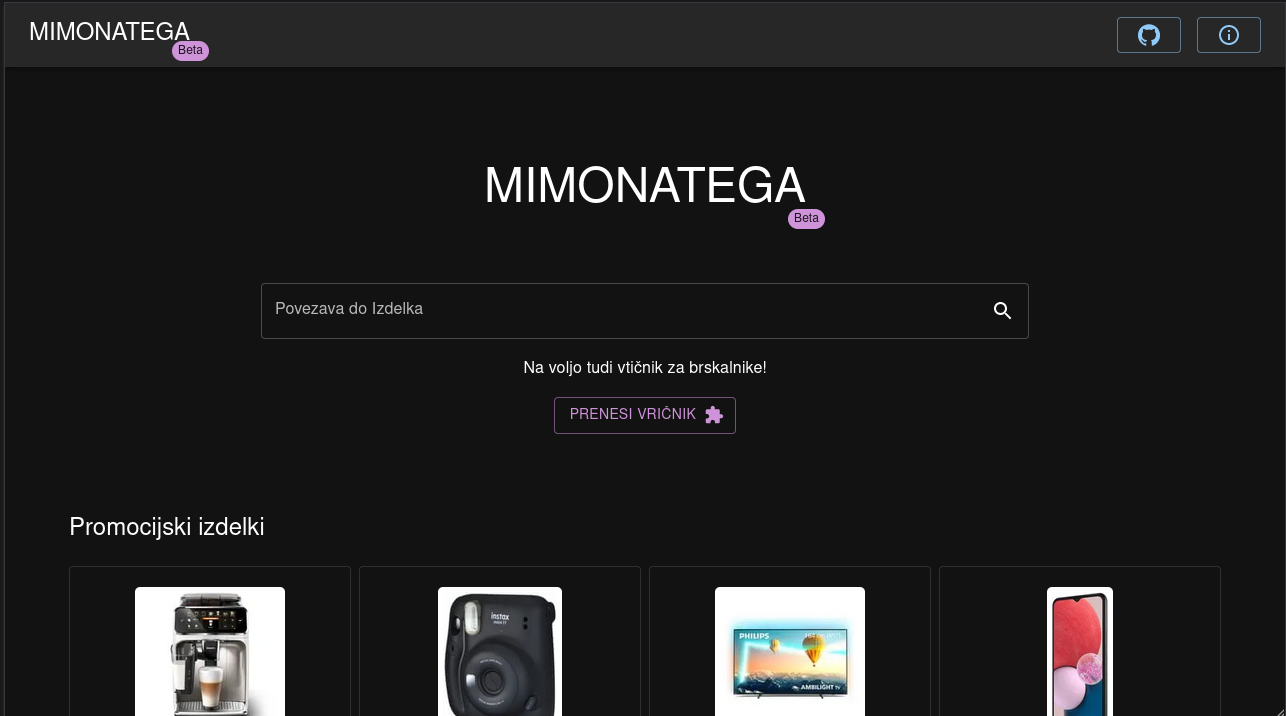
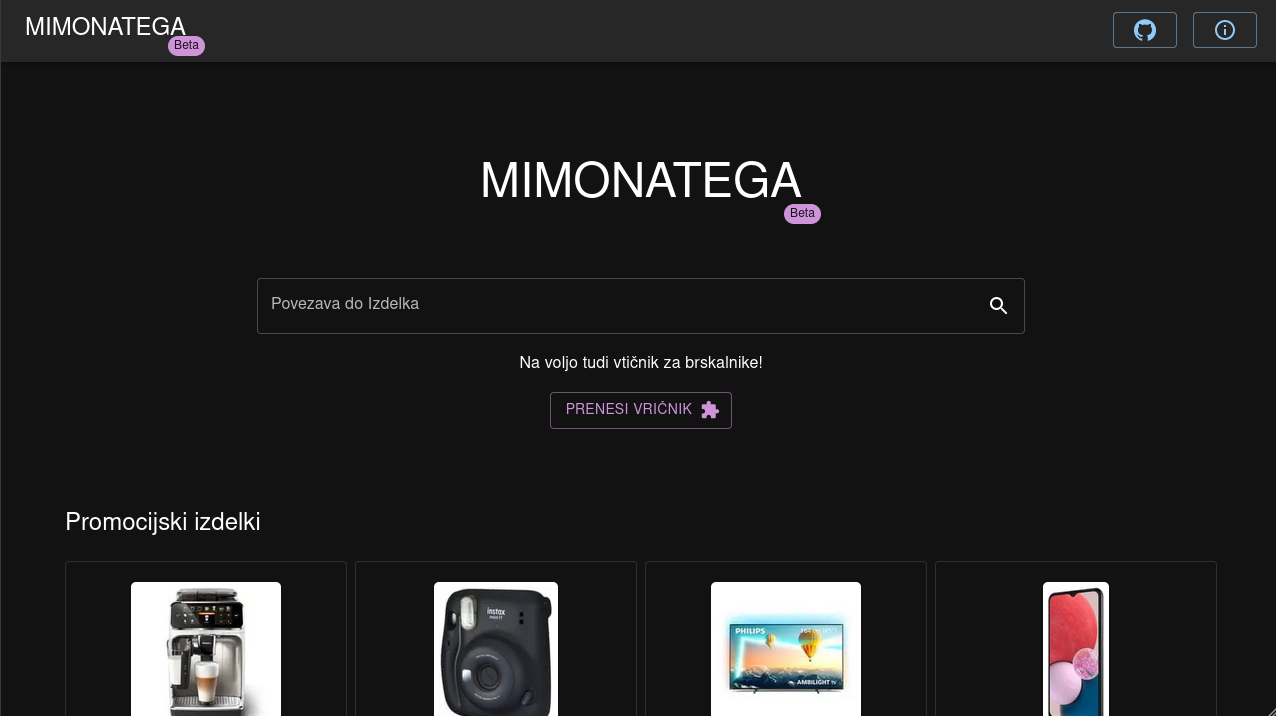
Initial commit

diff --git a/pages/index.js b/pages/index.js
@@ -98,7 +98,7 @@ function Home() {
                         <Grid item md={2}></Grid>
                         <Grid item md={8} xs={12}>
                             <Typography sx={{mt: '1em'}} variant={"subtitle1"}>Na voljo tudi vtičnik za brskalnike!</Typography>
-                            <Button sx={{mt: '1em'}} component={Link} href={"https://github.com/ExidCuter/mimonatega-ext"} color="secondary" variant={"outlined"} endIcon={<Extension></Extension>}>PRENESI VRIčnik</Button>
+                            <Button sx={{mt: '1em'}} component={Link} href={"https://github.com/ExidCuter/mimonatega-ext"} color="secondary" variant={"outlined"} endIcon={<Extension></Extension>}>PRENESI VTIčnik</Button>
                         </Grid>
                         <Grid item md={2}></Grid>
                     </Grid>
